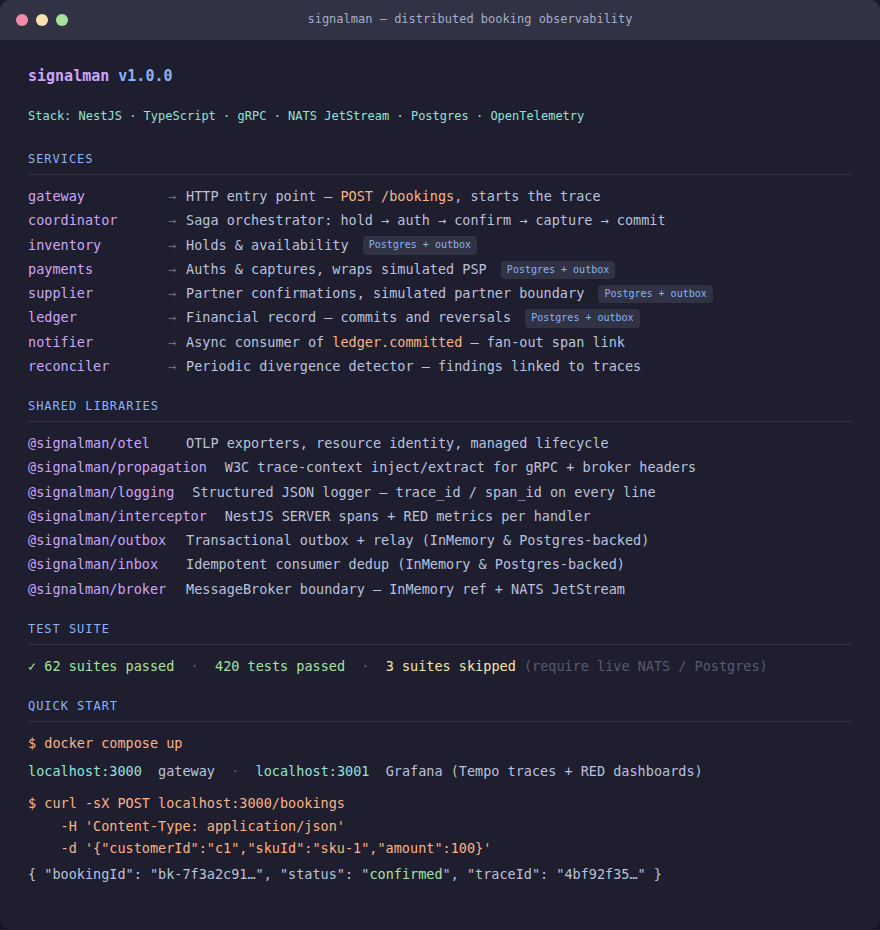
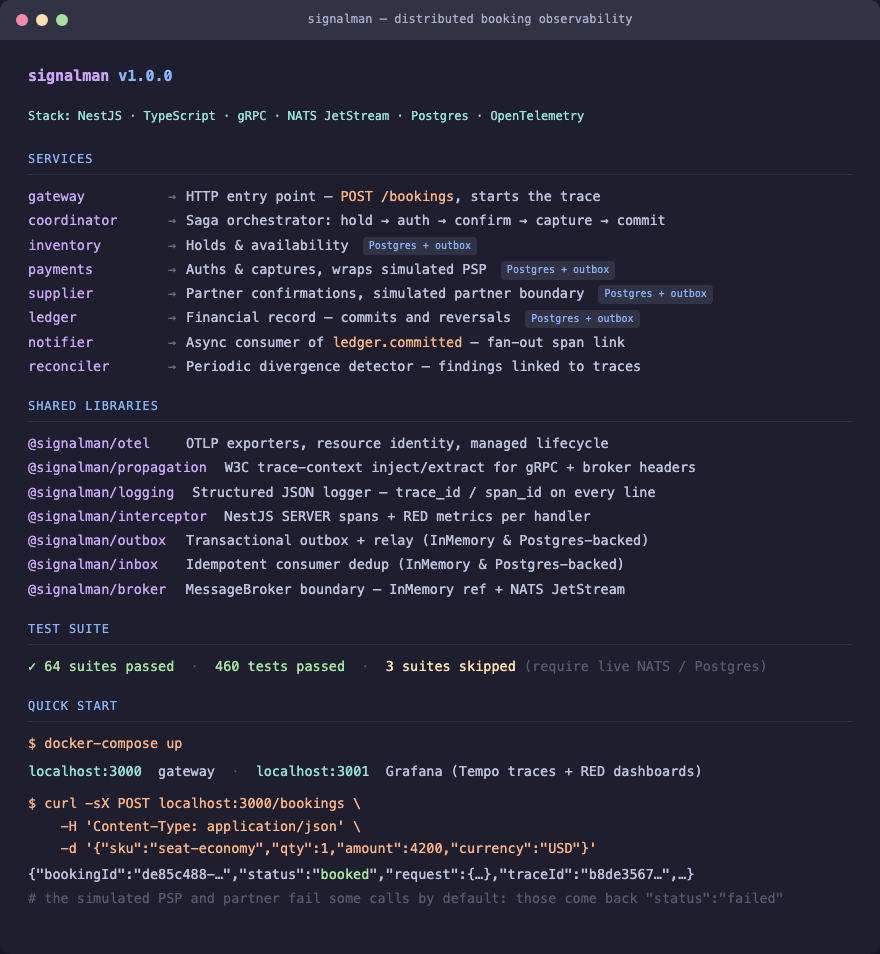
fix(docs): show a booking request the gateway accepts in the overview screenshot
The overview screenshot still showed the old quick-start body
({"customerId":"c1","skuId":"sku-1","amount":100}), which the gateway
answers with 400 "sku must be a non-empty string", a made-up response
with status "confirmed" (the gateway returns booked or failed) and test
counts from June.

scripts/screenshot.mjs now shows the README quick-start request and a
shortened response from a real local run, takes its test counts from a
Jest run (and stops if a test fails), keeps the curl line continuations,
and uses Playwright's own Chromium unless PLAYWRIGHT_CHROMIUM_PATH is set.

A new test, documented-requests.spec.ts, runs every documented POST
/bookings body through parseBookingRequest, checks every curl/grpcurl
body names a seeded SKU, and checks the overview matches the README
quick start. It fails 4 of 26 cases on main's files; one was SKU-A in
docs/integration.md, now seat-economy. The inventory seed moves to
demo-stock.ts so the test can import it.

diff --git a/services/gateway/src/bookings/documented-requests.spec.ts b/services/gateway/src/bookings/documented-requests.spec.ts
@@ -1,0 +1,103 @@
+/**
+ * Keeps the documented booking requests honest.
+ *
+ * The README, the docs, the compose file and the screenshot script all show
+ * `curl` and `grpcurl` calls with a JSON body. Twice those bodies drifted from
+ * what the running stack accepts: field names the gateway rejects
+ * (`skuId`, `customerId`) and SKUs the inventory service never seeded. These
+ * tests read the files as published and check each body against the gateway's
+ * own validator and the inventory seed.
+ */
+import { readdirSync, readFileSync } from 'fs';
+import { join } from 'path';
+import { DEMO_STOCK } from '../../../inventory/src/holds/demo-stock';
+import { parseBookingRequest } from './booking.controller';
+
+const ROOT = join(__dirname, '..', '..', '..', '..');
+const SCREENSHOT_SCRIPT = 'scripts/screenshot.mjs';
+
+const DOCUMENTED_FILES = [
+  'README.md',
+  'docker-compose.yml',
+  SCREENSHOT_SCRIPT,
+  ...readdirSync(join(ROOT, 'docs'))
+    .filter((name) => name.endsWith('.md'))
+    .map((name) => `docs/${name}`),
+];
+
+interface DocumentedRequest {
+  /** `file:line` where the command starts, for test names. */
+  where: string;
+  /** `curl` (an HTTP call) or `grpcurl` (a gRPC call). */
+  tool: 'curl' | 'grpcurl';
+  /** The command text from the tool name up to the body. */
+  command: string;
+  body: Record<string, unknown>;
+}
+
+/** Every `curl`/`grpcurl ... -d '{...}'` call in a file, with its parsed body. */
+function documentedRequests(file: string): DocumentedRequest[] {
+  const text = readFileSync(join(ROOT, file), 'utf8');
+  const found: DocumentedRequest[] = [];
+  // From a tool name to the first -d '{...}' after it, without crossing into
+  // the next command.
+  const pattern = /\b(grpcurl|curl)\b((?:(?!\b(?:grpc)?curl\b)[\s\S]){0,400}?)-d '(\{[^']*\})'/g;
+  for (const match of text.matchAll(pattern)) {
+    const line = text.slice(0, match.index).split('\n').length;
+    found.push({
+      where: `${file}:${line}`,
+      tool: match[1] as 'curl' | 'grpcurl',
+      command: match[2],
+      body: JSON.parse(match[3]) as Record<string, unknown>,
+    });
+  }
+  return found;
+}
+
+const ALL_REQUESTS = DOCUMENTED_FILES.flatMap(documentedRequests);
+
+/** `curl -X POST .../bookings` calls: what a reader sends to the gateway. */
+const BOOKING_POSTS = ALL_REQUESTS.filter(
+  (r) => r.tool === 'curl' && /\/bookings(?![\w/])/.test(r.command),
+);
+
+describe('documented booking requests', () => {
+  it('finds the quick-start requests in the README and the screenshot script', () => {
+    const files = new Set(BOOKING_POSTS.map((r) => r.where.split(':')[0]));
+    expect(files).toContain('README.md');
+    expect(files).toContain(SCREENSHOT_SCRIPT);
+  });
+
+  it.each(BOOKING_POSTS.map((r) => [r.where, r] as const))(
+    'POST /bookings body at %s passes the gateway validator',
+    (_where, request) => {
+      expect(() => parseBookingRequest(request.body)).not.toThrow();
+    },
+  );
+
+  it.each(
+    ALL_REQUESTS.filter((r) => typeof r.body.sku === 'string').map(
+      (r) => [r.where, r.body.sku as string] as const,
+    ),
+  )('request at %s names a seeded SKU (%s)', (_where, sku) => {
+    expect(Object.keys(DEMO_STOCK)).toContain(sku);
+  });
+});
+
+describe('overview screenshot', () => {
+  const script = readFileSync(join(ROOT, SCREENSHOT_SCRIPT), 'utf8');
+
+  it('shows the same booking request as the README quick start', () => {
+    const [readmeQuickStart] = BOOKING_POSTS.filter((r) => r.where.startsWith('README.md:'));
+    const [shown] = BOOKING_POSTS.filter((r) => r.where.startsWith(SCREENSHOT_SCRIPT));
+    expect(shown.body).toEqual(readmeQuickStart.body);
+  });
+
+  it('only shows booking statuses the gateway returns', () => {
+    const statuses = [...script.matchAll(/"status":\s*"(?:<[^>]+>)?(\w+)/g)].map((m) => m[1]);
+    expect(statuses.length).toBeGreaterThan(0);
+    for (const status of statuses) {
+      expect(['booked', 'failed']).toContain(status);
+    }
+  });
+});

diff --git a/services/inventory/src/holds/inventory.module.ts b/services/inventory/src/holds/inventory.module.ts
@@ -29,6 +29,7 @@ import {
   type UnitOfWork,
 } from '@signalman/outbox';
 import { Pool } from 'pg';
+import { DEMO_STOCK } from './demo-stock';
 import { PostgresHoldRepository } from './pg-hold-repository';
 import { InMemoryHoldRepository, type HoldRepository } from './hold-repository';
 import { InventoryController } from './inventory.controller';
@@ -42,17 +43,6 @@ export const OUTBOX_STORE = Symbol('OUTBOX_STORE');
 
 /** DI token for the {@link BrokerFromEnvResult} the relay publishes onto. */
 export const MESSAGE_BROKER = Symbol('MESSAGE_BROKER');
-
-/**
- * Demo availability catalogue. Real deployments seed this from the inventory
- * datastore; a fixed catalogue keeps the service self-contained in in-memory
- * mode (when `POSTGRES_URL` is not set).
- */
-const DEMO_STOCK: Record<string, number> = {
-  'seat-economy': 100,
-  'seat-business': 20,
-  'room-standard': 50,
-};
 
 /** Returns the transaction runner to inject into {@link InventoryService}. */
 function makeTransact(

diff --git a/services/inventory/src/holds/demo-stock.ts b/services/inventory/src/holds/demo-stock.ts
@@ -1,0 +1,14 @@
+/**
+ * Demo availability catalogue: the SKUs the inventory service starts with.
+ *
+ * In in-memory mode (no `POSTGRES_URL`) it is the whole catalogue; in Postgres
+ * mode {@link PostgresHoldRepository.ensureSchema} seeds the `inventory` schema
+ * with it on bootstrap. The README and docs book these SKUs, and
+ * `services/gateway/src/bookings/documented-requests.spec.ts` checks that every
+ * documented booking request names one of them.
+ */
+export const DEMO_STOCK: Readonly<Record<string, number>> = {
+  'seat-economy': 100,
+  'seat-business': 20,
+  'room-standard': 50,
+};

diff --git a/CHANGELOG.md b/CHANGELOG.md
@@ -24,6 +24,30 @@ The format is based on [Keep a Changelog](https://keepachangelog.com/en/1.1.0/).
 
 ## [Unreleased]
 
+### Fixed (2026-11-09)
+- **The overview screenshot shows a request the gateway accepts.** It still
+  showed `{"customerId":"c1","skuId":"sku-1","amount":100}`, which the gateway
+  answers with `400 sku must be a non-empty string`, a made-up response with
+  `"status": "confirmed"` (the gateway returns `booked` or `failed`) and test
+  counts from June. `scripts/screenshot.mjs` now shows the README quick-start
+  request and a shortened response from a real local run, runs the Jest suite
+  first and puts its real counts in the image (stopping if a test fails), keeps
+  the `\` line continuations in the curl command, uses `docker-compose up` like
+  the README, and uses Playwright's own Chromium unless
+  `PLAYWRIGHT_CHROMIUM_PATH` is set (the old default was a Linux-only path).
+  `docs/screenshots/signalman-overview.png` is regenerated; the trace-anatomy
+  image is unchanged.
+- **New test: documented requests match the running stack.**
+  `services/gateway/src/bookings/documented-requests.spec.ts` reads the README,
+  `docs/*.md`, `docker-compose.yml` and the screenshot script, runs every
+  documented `POST /bookings` body through the gateway's `parseBookingRequest`,
+  checks that every `curl`/`grpcurl` body names a seeded SKU, and checks that
+  the overview shows the README quick start. On main's files it fails 4 of 26
+  cases. The inventory seed moves to `services/inventory/src/holds/demo-stock.ts`
+  so the test can import it, and `docs/integration.md`'s Inventory `Hold`
+  example books `seat-economy` instead of the unseeded `SKU-A` (which was
+  refused with `insufficient_stock`).
+
 ### Fixed (2026-11-08)
 - **The README quick start works as written.** Its booking request sent
   `skuId`, `quantity` and `customerId`, which the gateway rejects with

diff --git a/PROGRESS.md b/PROGRESS.md
@@ -391,9 +391,13 @@ deliverable per run.
   makes the saga run `supplier.cancel` (`services/coordinator/src/saga/booking-saga.ts`),
   so the cancel would also have to fail to leave the supplier confirmed
   (found 2026-11-08).
-- ☐ The overview screenshot (`docs/screenshots/signalman-overview.png`, built by
-  `scripts/screenshot.mjs`) still shows the old quick-start request body with
-  `customerId`; regenerate it after updating the script (found 2026-11-08).
+- ☑ The overview screenshot (`docs/screenshots/signalman-overview.png`, built by
+  `scripts/screenshot.mjs`) still showed the old quick-start request body with
+  `customerId` (found 2026-11-08). Fixed 2026-11-09: it shows the README quick
+  start and a real response, the script takes its test counts from a Jest run,
+  and `services/gateway/src/bookings/documented-requests.spec.ts` checks every
+  documented booking request against the gateway validator and the inventory
+  seed (which also caught `SKU-A` in `docs/integration.md`).
 - ☐ `spec.md`'s milestone table still shows M3 and M6 as not started and the rest
   as in progress, while every milestone above is done (found 2026-10-06).
 - ☐ No project dossier PDF (`docs/dossier/`); `docs/architecture.md` covers the

diff --git a/README.md b/README.md
@@ -22,6 +22,10 @@ back to the originating trace.
   <img src="docs/screenshots/signalman-trace-anatomy.png" alt="signalman trace anatomy — happy path, compensation, reconciler divergence" width="900">
 </p>
 
+Both images are drawn by `node scripts/screenshot.mjs` (Playwright). It runs the
+test suite first and puts the real counts in the overview; the overview's
+booking request is the quick start below, and a test checks that it stays so.
+
 ## Documentation
 
 | Document | What it covers |
@@ -34,7 +38,7 @@ back to the originating trace.
 ## Status
 
 **v1.0.0, specification complete.** Lint, typecheck, build and the test suite
-are green: 66 suites and 450 tests, of which 3 suites (17 tests) need a running
+are green: 67 suites and 477 tests, of which 3 suites (17 tests) need a running
 NATS or Postgres and are skipped by default. See [Known limits](#known-limits)
 for what the system does not do yet.
 

diff --git a/docs/integration.md b/docs/integration.md
@@ -427,10 +427,10 @@ A failed booking (for example, insufficient stock):
 ### Inventory — Hold / Release
 
 ```bash
-# Hold 2 units of SKU-A for booking bk-2
+# Hold 2 units of seat-economy for booking bk-2
 grpcurl -plaintext \
   -import-path proto -proto inventory.proto \
-  -d '{"bookingId":"bk-2","sku":"SKU-A","qty":2}' \
+  -d '{"bookingId":"bk-2","sku":"seat-economy","qty":2}' \
   localhost:50051 signalman.inventory.v1.Inventory/Hold
 
 # Release the hold for booking bk-2
